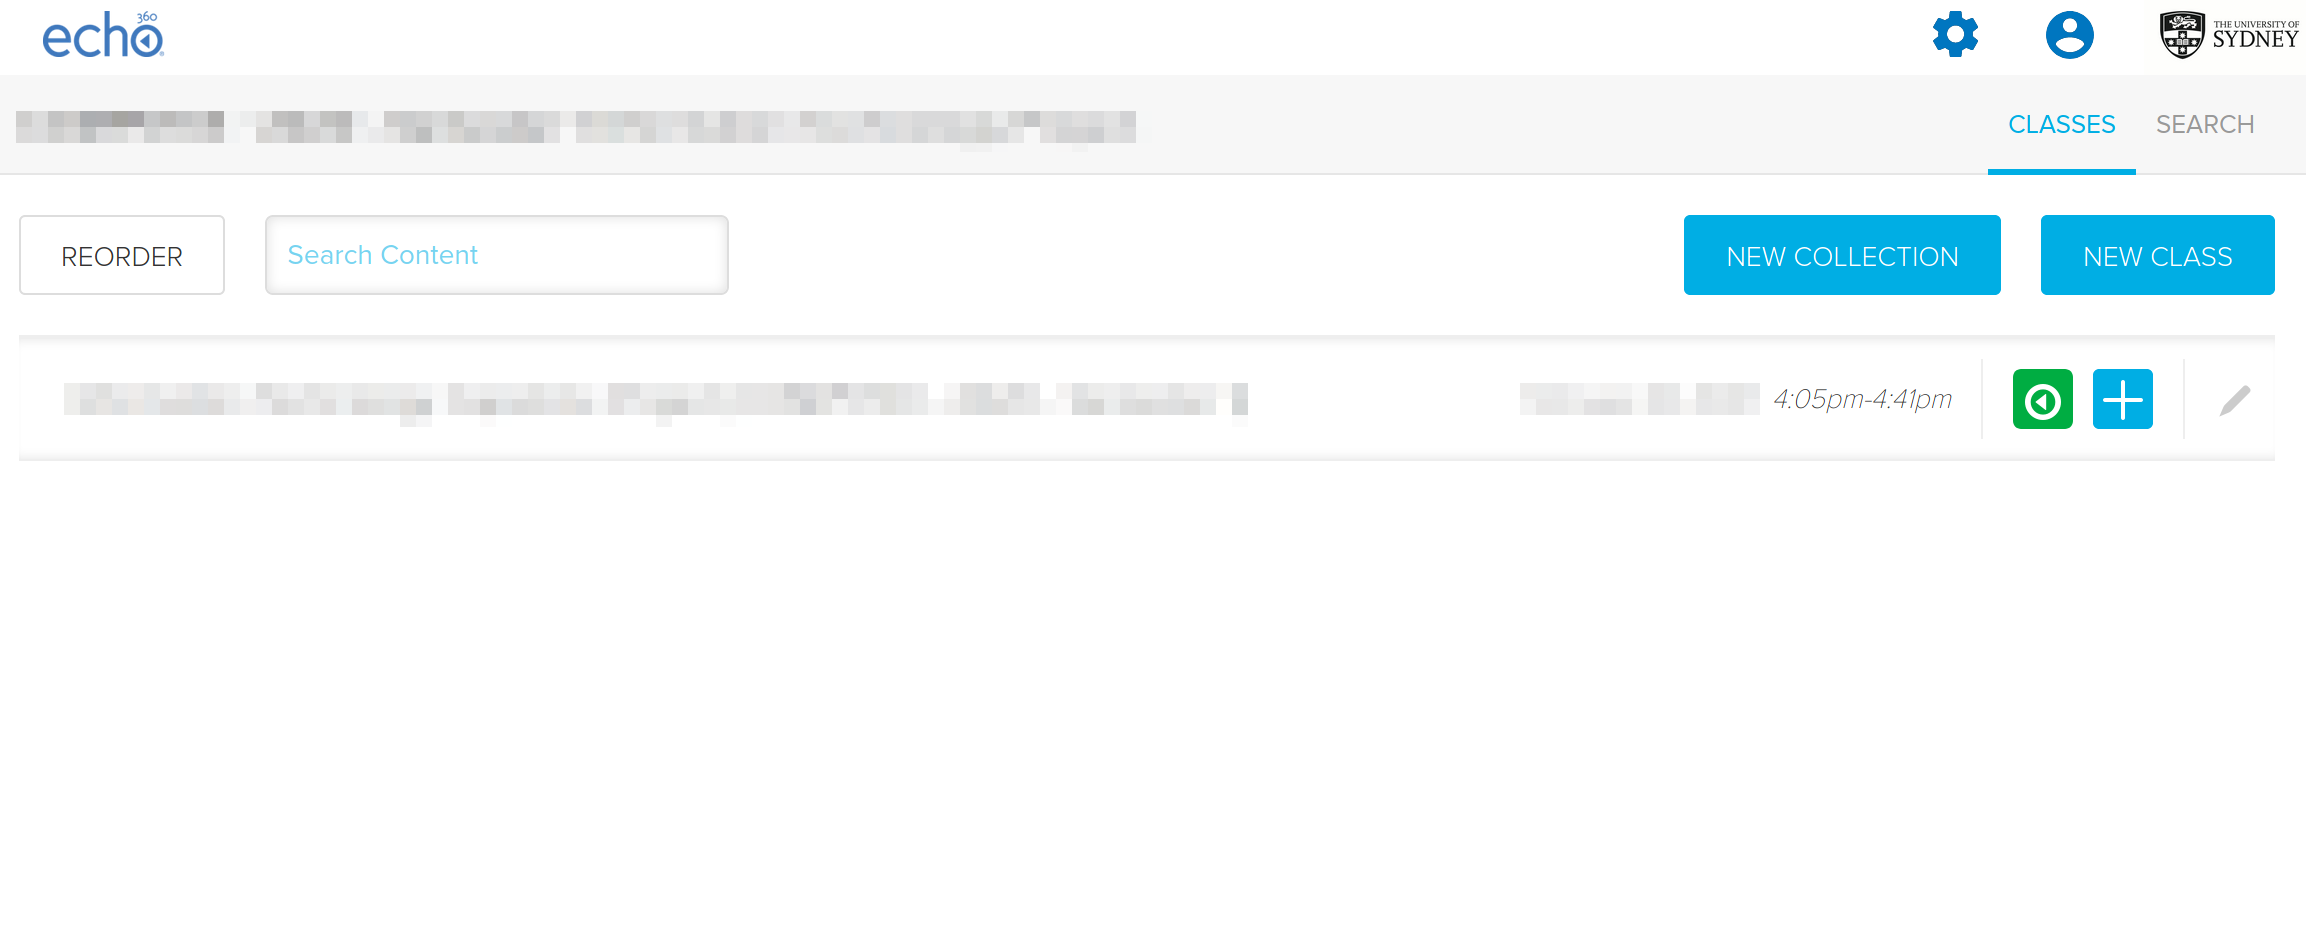
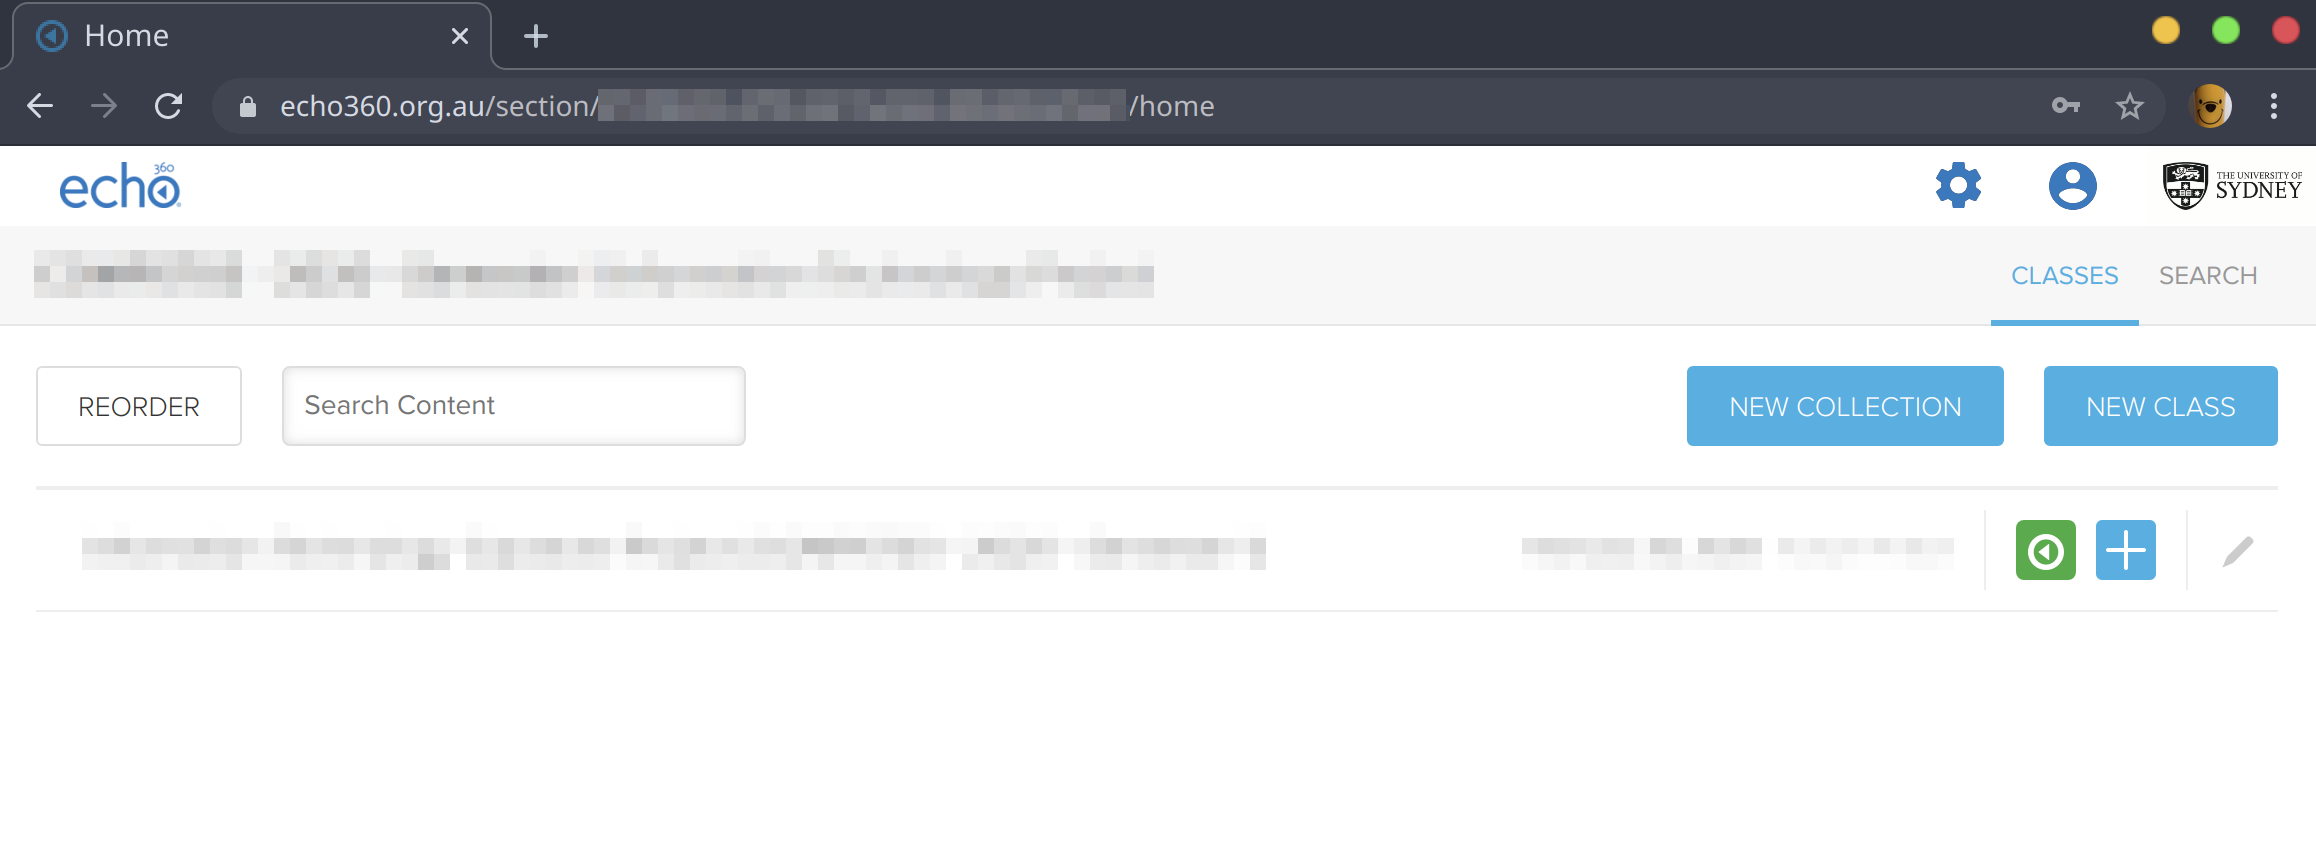
update better img to retrieving url

diff --git a/README.md b/README.md
@@ -295,7 +295,9 @@ The UUID (Unified Unique IDentifier) is the last element of the URL. So in the a
 
 Echo360 cloud refers to websites in the format of `https://echo360.org[.xx]`. This module now officially support this platform.
 
-<img height="auto" src="docs/images/echo360cloud_home.png" alt="echo360 cloud course main page" />
+<p align="center">
+<img height="auto" width="900" src="docs/images/echo360cloud_home.png" alt="echo360 cloud course main page" />
+</p>
 
 This method requires you to setup SSO credentials, therefore, it needs to open up a browser for you to setup your own university's SSO credentials.
 
